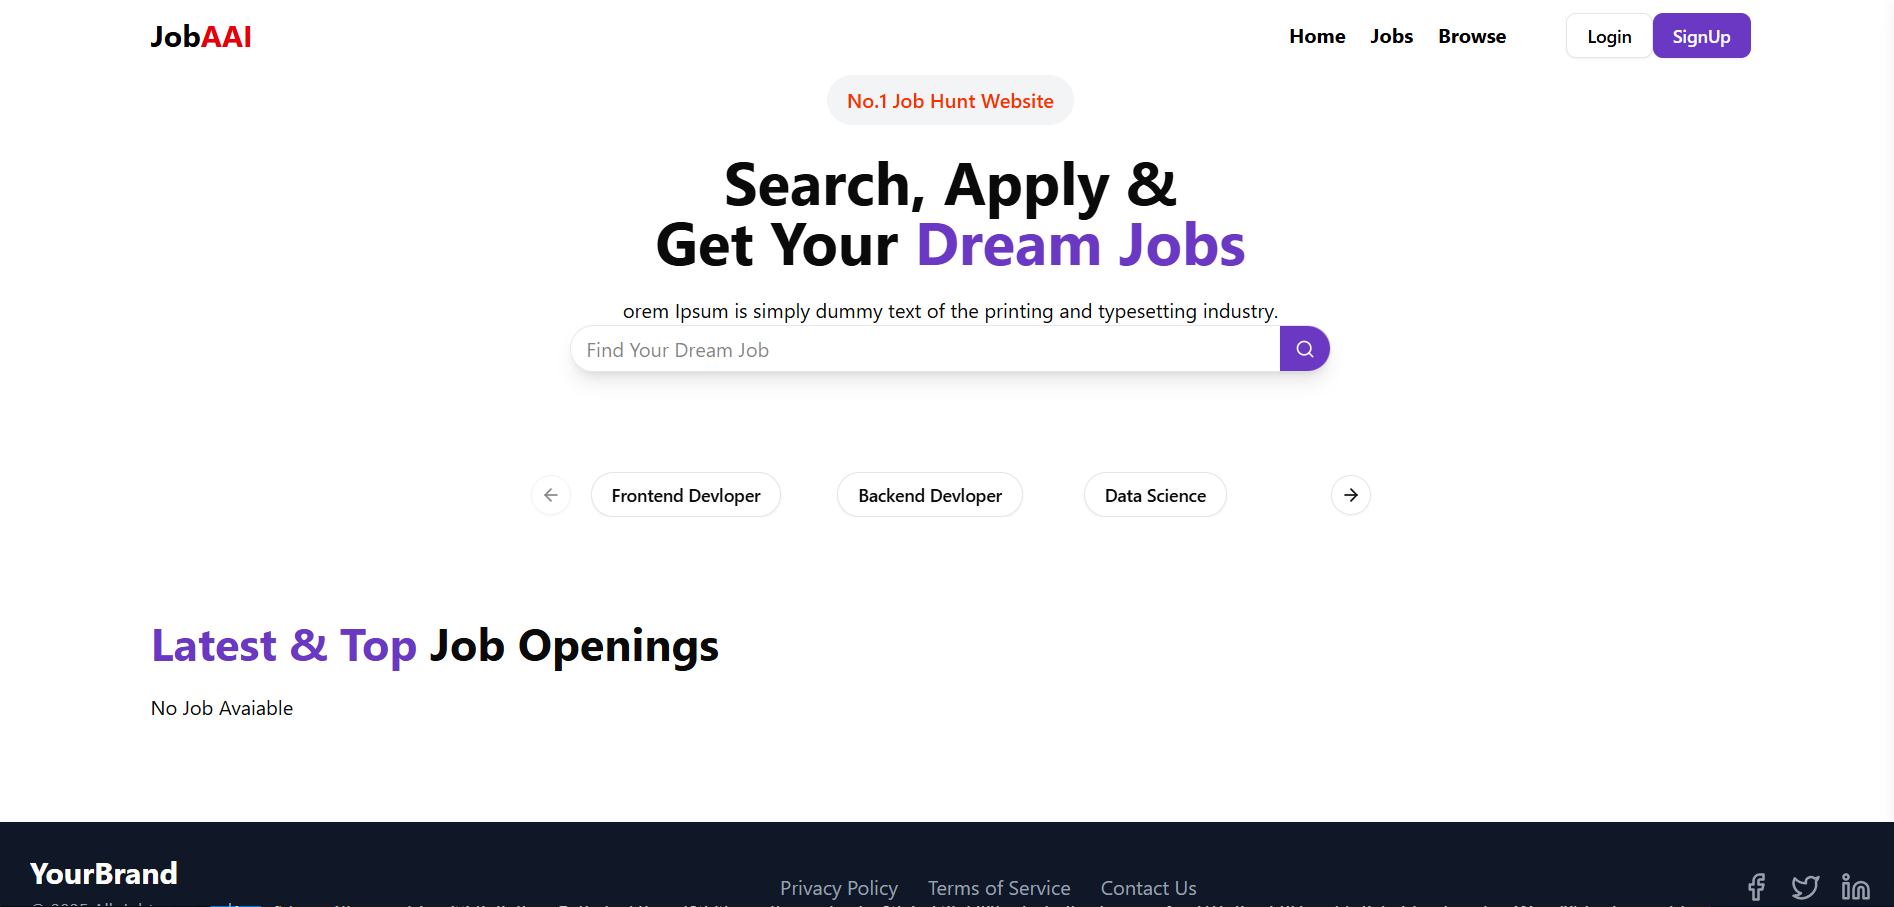
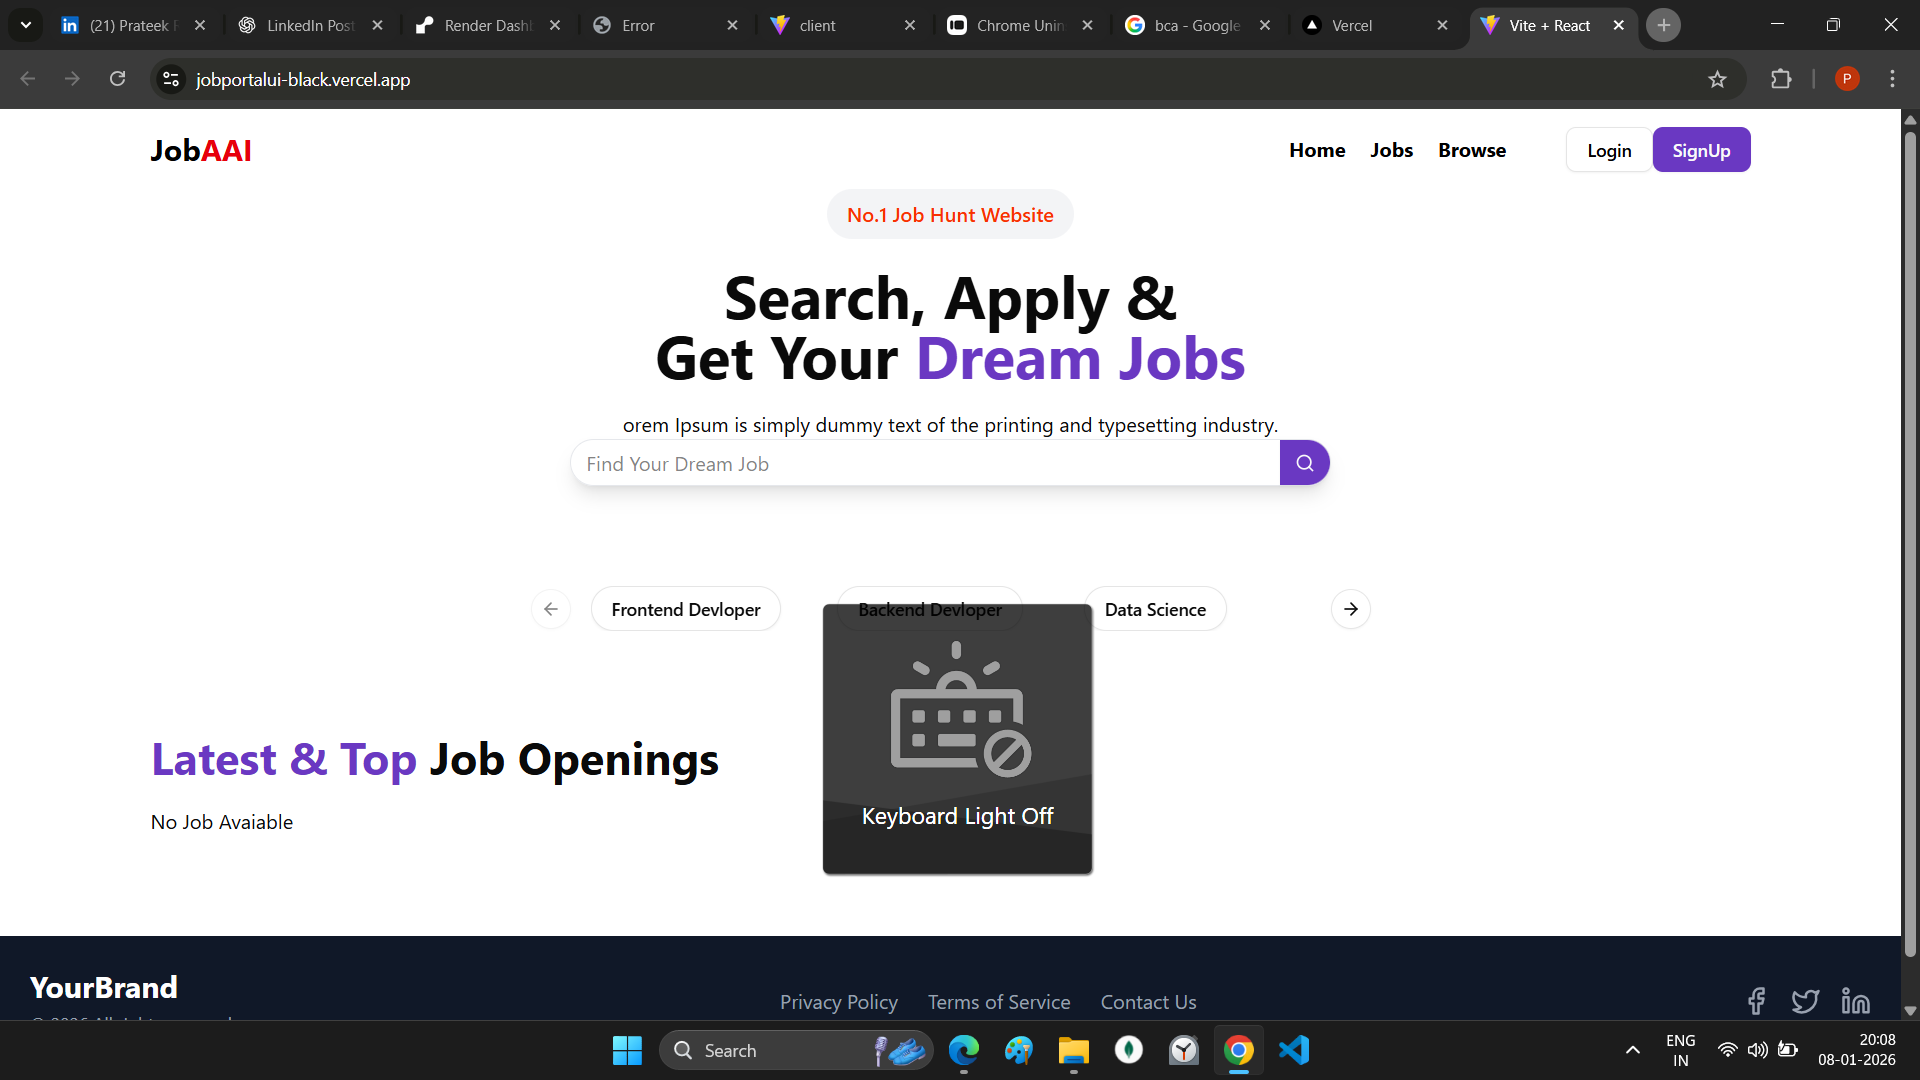
done

diff --git a/src/components/ProjectsSection.jsx b/src/components/ProjectsSection.jsx
@@ -123,8 +123,8 @@ export const ProjectsSection = () => {
 
               <div className="p-6">
                 <div className="flex flex-wrap gap-2 mb-4">
-                  {project.tags.map((tag) => (
-                    <span className="px-2 py-1 text-xs font-medium border rounded-full bg-secondary text-secondary-foreground">
+                  {project.tags.map((tag, i) => (
+                    <span key={i} className="px-2 py-1 text-xs font-medium border rounded-full bg-secondary text-secondary-foreground">
                       {tag}
                     </span>
                   ))}
